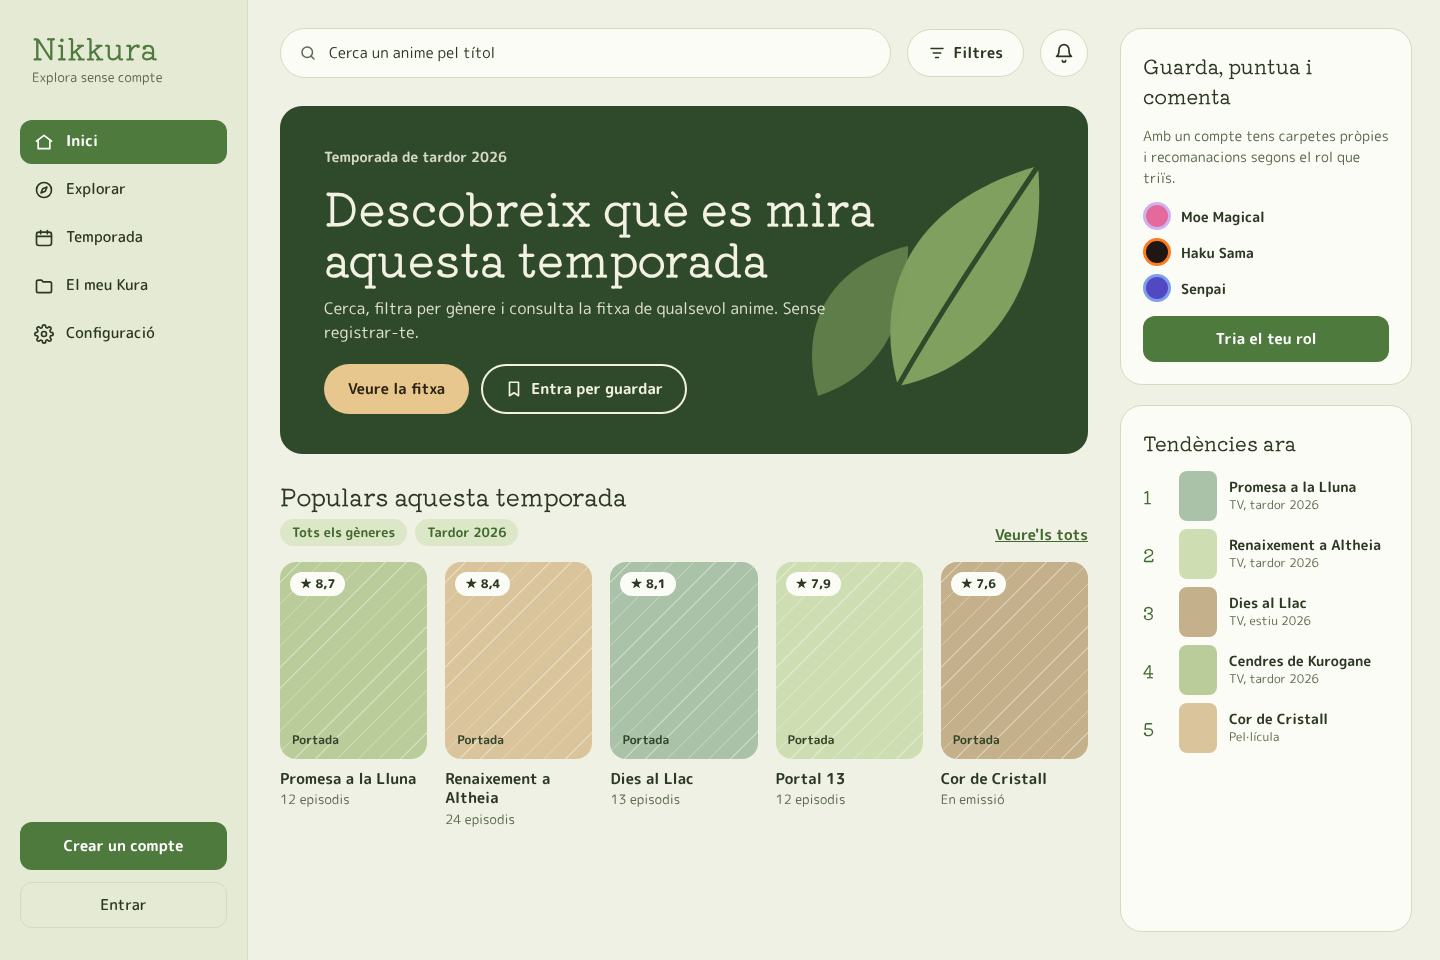
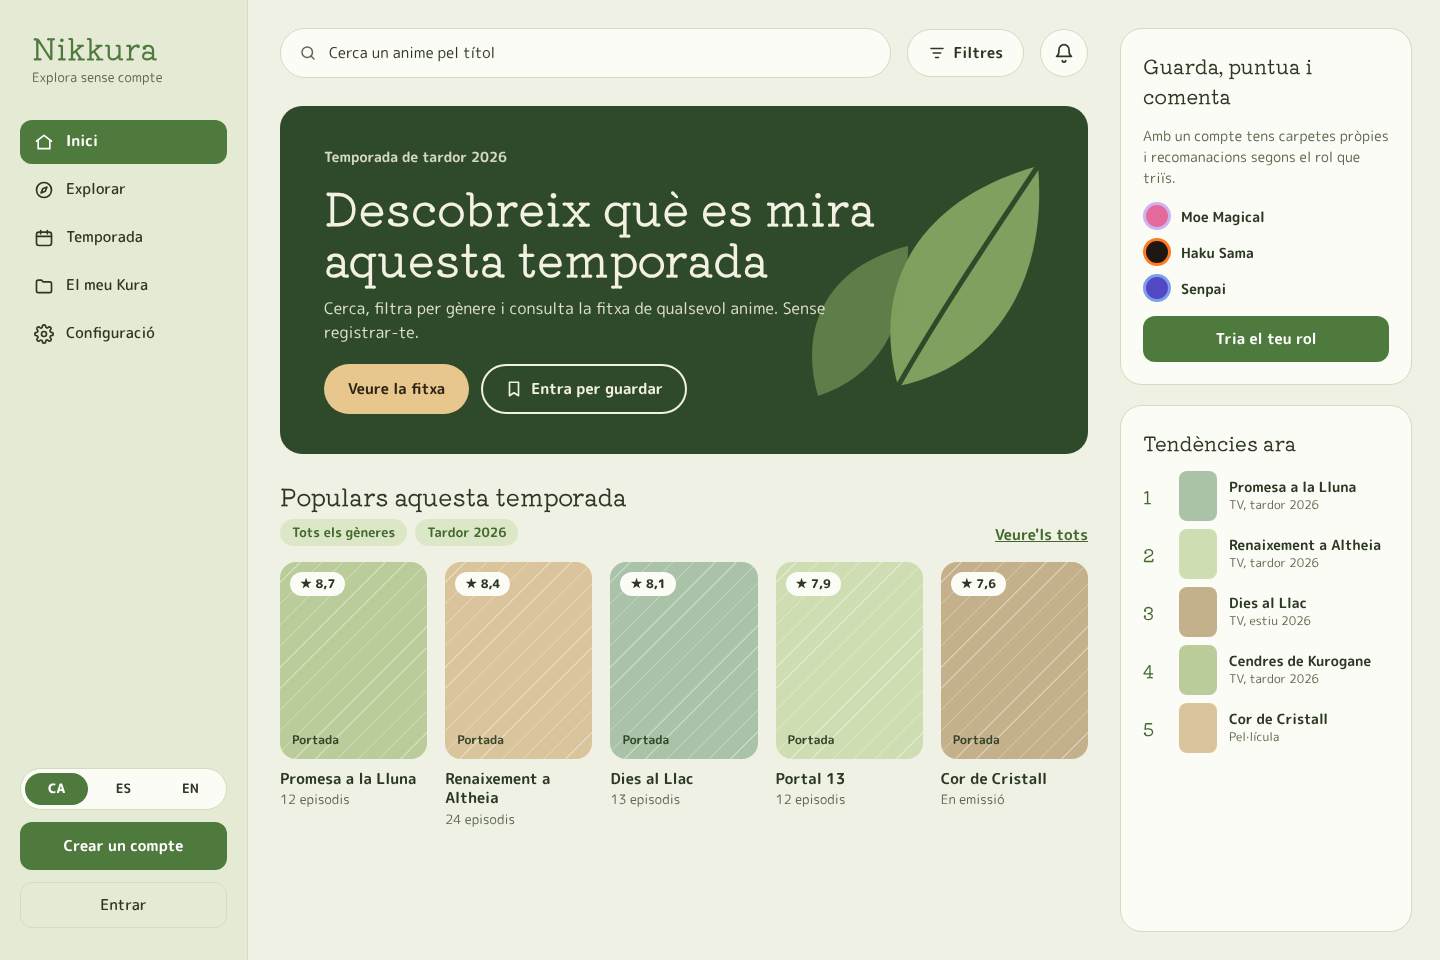
docs: add language switch and i18n rules to the design
Nikkura is trilingual (Catalan, Spanish and English). The mockups now
show the CA · ES · EN switch in the desktop sidebar and in the login and
sign-up headers, and DESIGN.md records how the language is chosen,
saved and laid out.

Refs #2

Changed region(s): [[0.0, 0.7812, 0.1562, 0.8438]]

diff --git a/docs/DESIGN.md b/docs/DESIGN.md
@@ -31,6 +31,17 @@ The palette is applied with CSS custom properties switched by a `data-role` attr
 - **Mobile:** bottom navigation with four tabs (Inici, Explorar, Temporada, Kura). The profile and settings open from the avatar in the header.
 - **Login and sign-up** have no app navigation, only a link back to exploring.
 
+## Languages (i18n)
+
+Nikkura is fully trilingual: **Catalan, Spanish and English**. Every piece of UI text is a translation key, never a hard-coded string, from the first component.
+
+- The first visit uses the browser language (Catalan, Spanish or English, with English as fallback). Once chosen, the language is saved in the user's profile; visitors keep it in the browser.
+- **Desktop:** CA · ES · EN switch at the bottom of the sidebar. **Login and sign-up:** switch in the header. **Mobile:** language button in the login and sign-up header, and in Configuració inside the app.
+- The `<html lang>` attribute changes with the language, and each option is labelled in its own language (Català, Castellano, English).
+- "Kura" is a name and is never translated. Genre names come from Jikan in English and are translated with our own table.
+- Catalan and Spanish texts are usually 20–30% longer than English, so buttons and chips grow with their content and never use fixed widths.
+- The mockups are drawn in Catalan.
+
 ## Breakpoints
 
 | Name | Width | Layout |

diff --git a/CHANGELOG.md b/CHANGELOG.md
@@ -9,6 +9,7 @@ Format based on [Keep a Changelog](https://keepachangelog.com/en/1.1.0/); versio
 - Project scaffold from `mee96/project-template`.
 - Design direction for the four roles (Moe Magical, Haku Sama, Senpai and visitor): home and anime page mockups for desktop and mobile in `docs/DESIGN.md`.
 - Mockups for search and filters, Kura, login and sign-up with role picker, plus the navigation pattern and breakpoints in `docs/DESIGN.md`.
+- Language switch (Catalan, Spanish and English) in the mockups and i18n rules in `docs/DESIGN.md`.
 
 ### Fixed
 - Search placeholder contrast in the home mockups.
